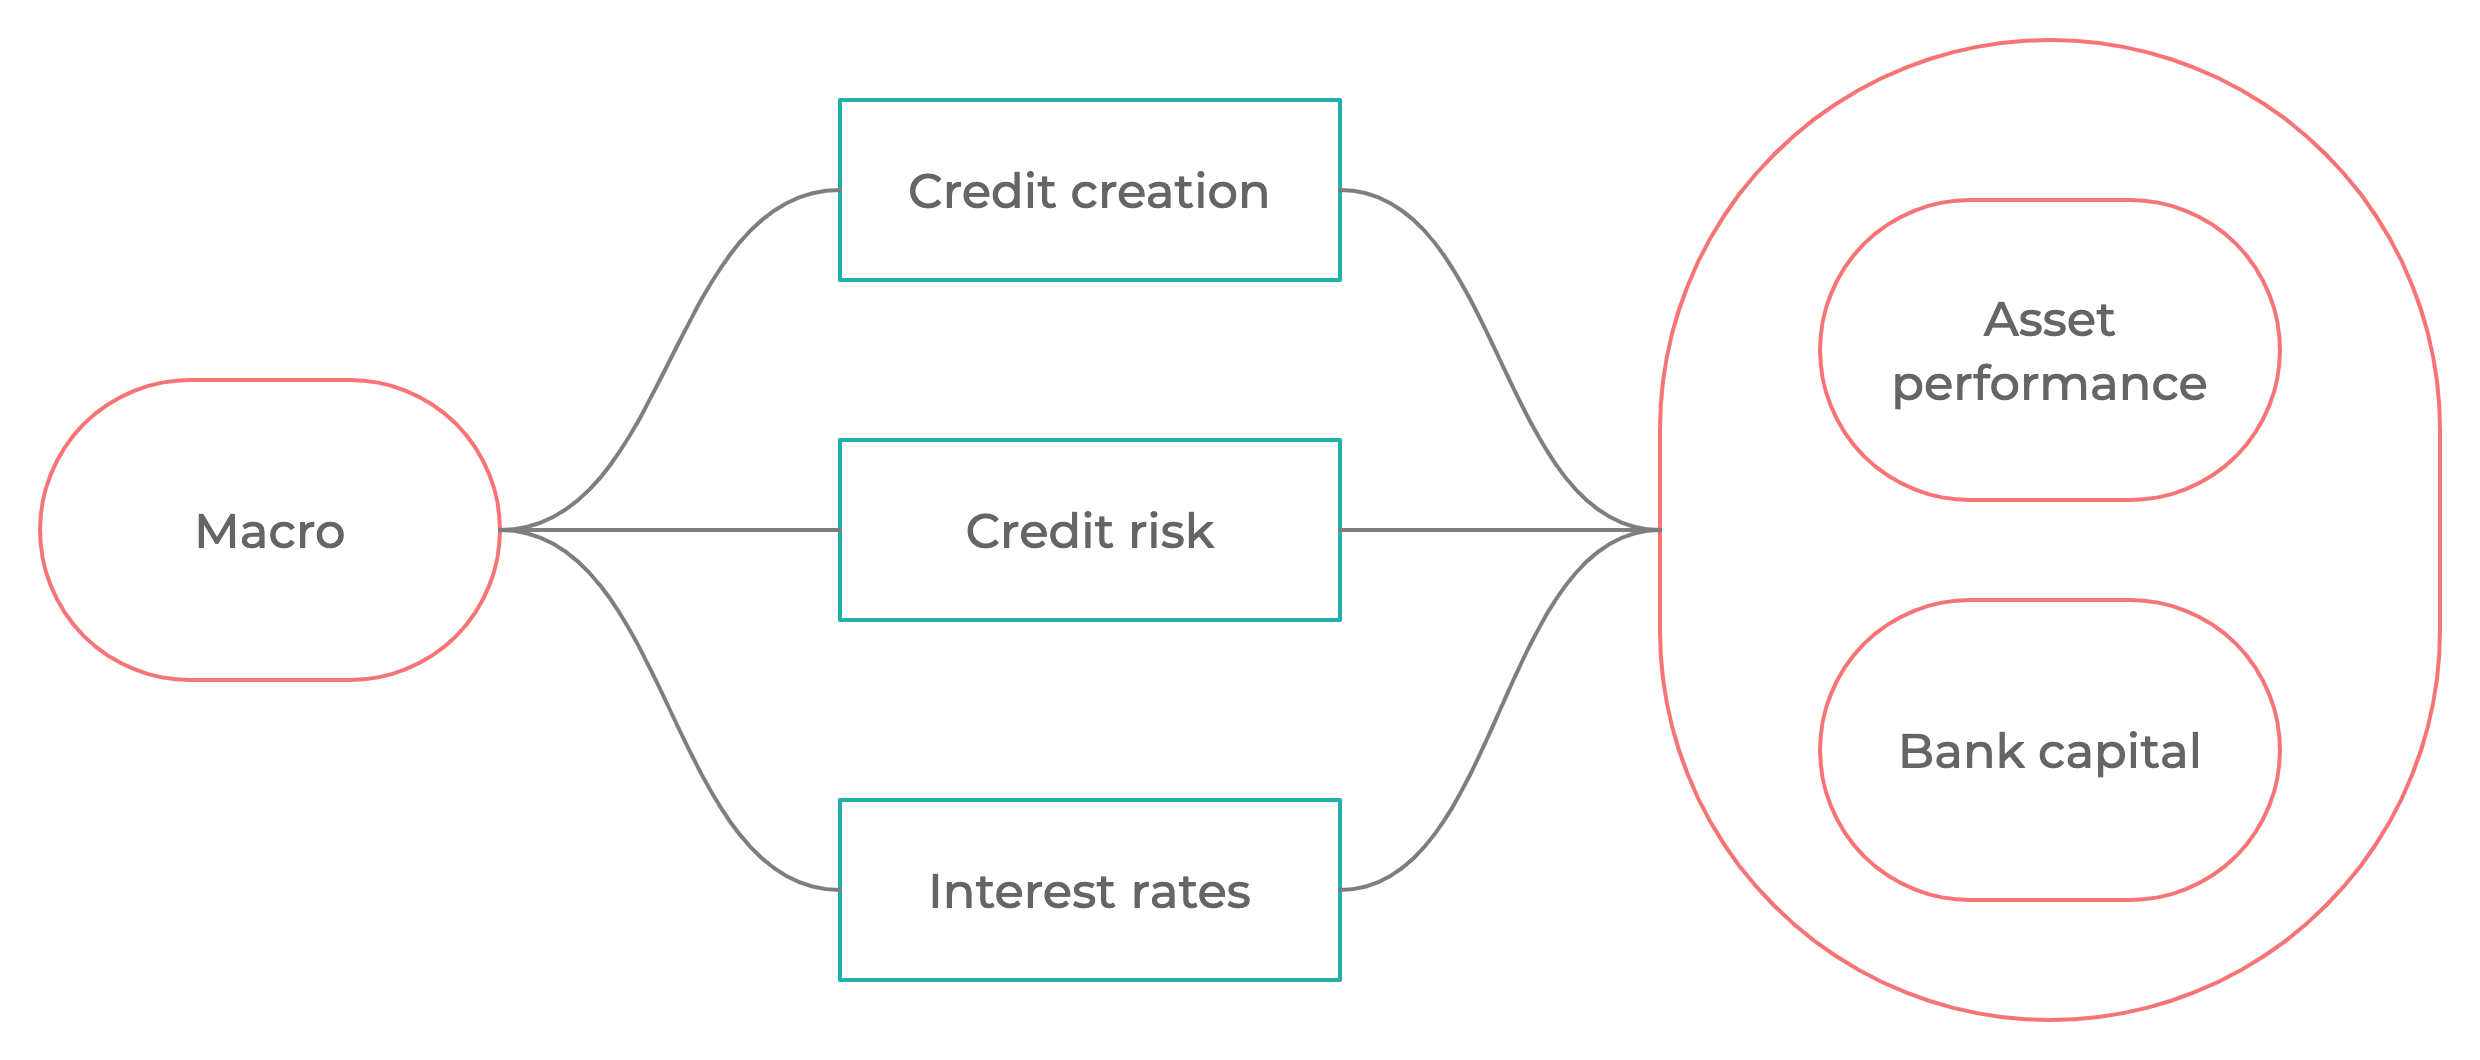
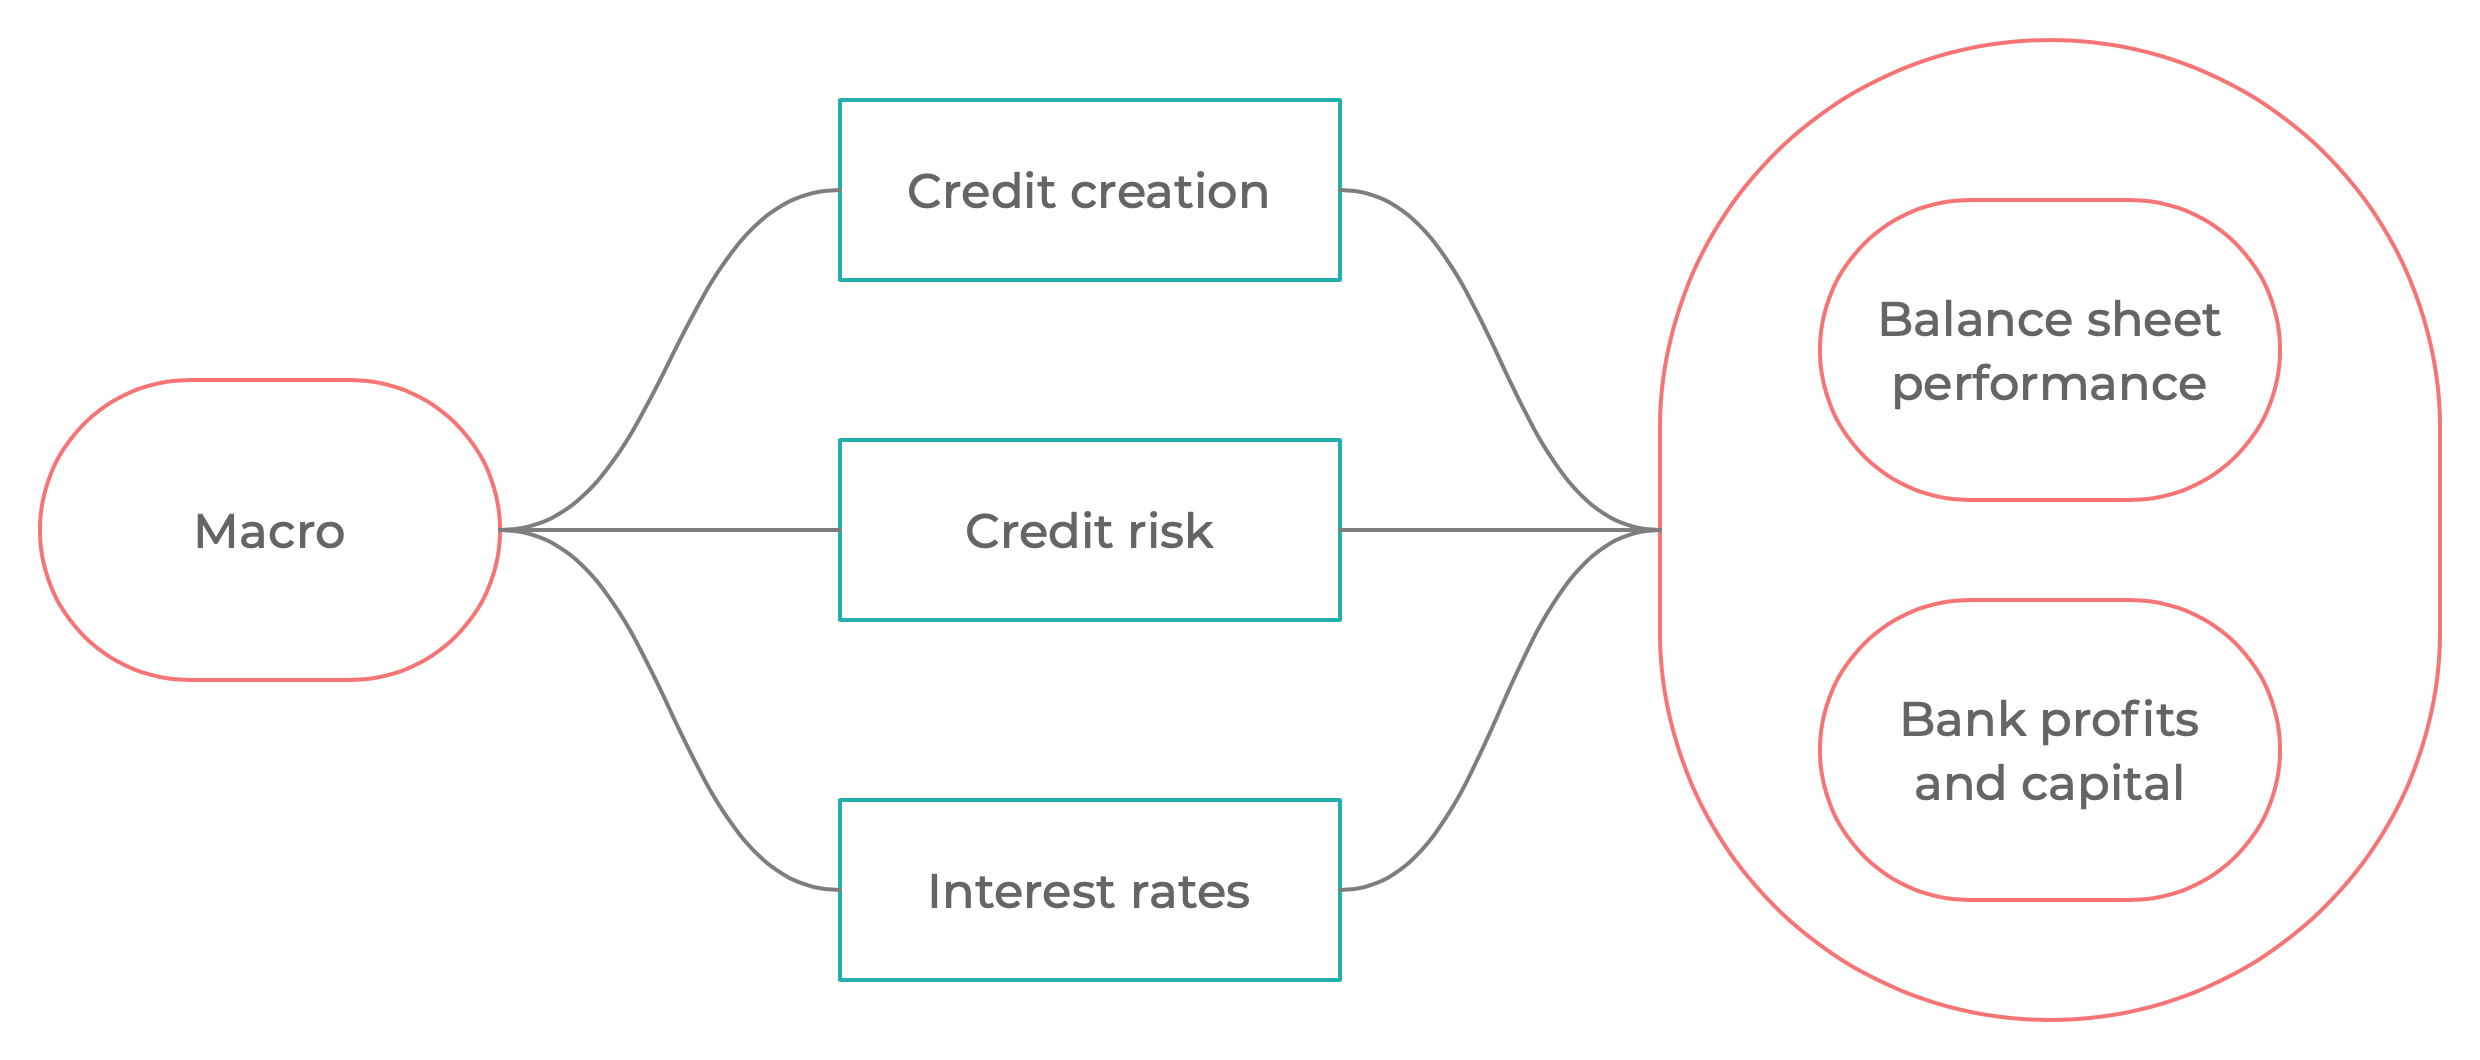
Edits before workshop

Changed region(s): [[0.7452, 0.6538, 0.9004, 0.7783], [0.7452, 0.2802, 0.9004, 0.3736]]

diff --git a/workshops/202204_inaugural/presentations/GIMM_introduction.md b/workshops/202204_inaugural/presentations/GIMM_introduction.md
@@ -96,84 +96,98 @@ April 2022
 ### Overview
 
 
-* Speaker contributions followed by model-based simulations 
-* This presentation introduces the modeling framework (MESSr)
-* Non-technical exposition, focusing on general, guiding principles
+* Speaker presentations followed by model-based experiments
+
+* This presentation introduces MESSr, the GIMM modeling framework 
+
+* Non-technical exposition explaining general modeling principles
 
 
 ---
 
 ### About the framework
 
-* Outcome of several applied macroprudential modeling projects
-	* Diverse economies and financial systems motivated large number of extensions
-* Focus primarily on __production__, not theoretical insights
-  * Motivated by insights from DSGE models (e.g. MAPMOD)
-  * But flexible semi-structural approach for practical reasons
-* Ongoing development based on our projects
+* The outcome of several __applied projects__ in macroprudential modeling
+	* A large numer of extensions emerged motivated by diverse economies and financial systems 
+
+* __Practical scenario production and policy advice__ framework, not a theoretical model
+    * Flexible semi-structural approach combining theory insights and empirical relevance
+    * Incorporates insights from more structural models, including DSGEs (e.g. MAPMOD)
+
+* __Continuous development__ responding to our technical cooperation projects
+
+---
+
+### Not just a model
+
+* A model alone, while a critical element, is not enough
+
+* Needs __operating infrastructure__ for regular use and streamlined production of outputs
+    * Collecting and feeding data to the model
+    * Streamlining the processing of inputs and outputs
+    * Reporting, internal and external communication of results
+
+* Motivated by first-hand experience from our practical applications
 
 
 ---
 
 ### Key modeling principles
 
-* __Top-down__ view of the economy
-  * Complements the usual FinStab bottom-up approach
-  * Works with aggregate concepts, not individual financial institutions
-* Endogenous __feedback loops__: (macroeconomy $\Longleftrightarrow$ financial sector)
-  * Vs traditional FinStab approach (macro $\Longrightarrow$ financial sector)
-* Medium-term view (2-5 yrs)
-  * Important to analyze macroprudential policy:
-    * Time for endogenous feedback loops to kick in
-    * Trade-offs of small and obvious costs now vs large potential gains in future
+* __Top-down__ modeling strategy
+    * Complement existing financial stability models/tools
+    * Provide a platform for consistently combining a range of inputs and pieces of analysis, including macro
+    * Aggregative view, not addressing individual financial institutions
+  
+* __Medium-term__ frequency of economic relationships
+    * Time for macro-financial interactions to kick in
+    * Policy trade-offs of small costs now vs large potential gains in the future
 
+* Endogenous __feedback__: macroeconomy $\Longleftrightarrow$ financial sector
+    * ...versus the more common one-way logic: macro $\Longrightarrow$ financial sector
 ---
 
 ### Key modeling principles, cont.
 
-* __Explicit__ description of balance sheets
-  * Gross positions matter, not just net positions
-* __Stock-flow consistency__:
-  * Stocks (wealth, credit stock, assets / liabilities) vs flows (GDP, credit creation, defaults / repayments)
-* Important role of __non-linearities__
-  * Necessary to render macroprudential policy relevant and useful
-  * Important to describe real-world events
+* __Explicit__ modeling of balance sheets
+    * Financial cycles associated with expansions and contractions of gross positions on balance sheets (banks, BOP, etc.)
+	* Correct understanding of how balance sheets work
+  
+* __Stock-flow consistency__
+    * Stocks (wealth, credit stock, assets, liabilities) cumulates from flows (GDP, new credit creation, defaults, repayments)
+
+* Presence of key __non-linearities__
+    * Nonlinearities are the essence of fin stab and macropru analysis
+    * Indispensable in describing real-world events
+    * Critical for macropru policy trade-offs
 
 ---
 
-### Focus on application
+### Designed for practical policy use cases
 
-* MESSr is a __semi-structural__ framework
-* Not DSGE with explicit microdoundations, but
+* __Semi-structural__ framework: Equations not derived from underlying "microfoundations", but still...
   * Explicit concepts of demand and supply (e.g. for credit)
-  * Endogenous expectations (can drive financial cycles)
-* Model __brought to data__, provide data-consistent simulations (as opposed to purely theoretical simulations)
-* __Integration and aggregation__ of several types of risk
-* Flexibility to describe various structures of financial system
-  * Primary focus on banks, but also other intermediaries too
+  * Unobserved sustainability trends (e.g. credit to GDP as in BIS analysis)	
+  * Endogenous expectations (e.g. makes easy to introduce IFRS9 forward-looking allowances)
+
+* __Empirical relevance__, capable of producing data-consistent scenarios (as opposed to only purely theoretical simulations)
+
 
 ---
 
-### Not just a model
+### Examples of practical use cases
 
-* Model itself is not enough
-* Need __infrastructure__ for regular, streamlined production of outputs
-  * Feeding data to the model
-  * Streamlined processing of macro inputs
-  * Reporting, communication of results
-* Ability to build __scenarios__ on top of (externally provided) baseline
-* Motivated by experience from and focus on practical applications
+* Build __scenarios__ on top of (externally provided) baselines (so-called Delta technique) 
 
----
+* Simulate the entire __macrofinancial cycles__ , e.g.
+    * Boom and bust in asset prices and credit growth
+    * Capital inflows and reversals
 
-### Differences from other macroprudential frameworks
+* Conceptualize the __costs and benefits__ of macropru policies
 
-* There is **no endogenous** macroprudential policy reaction function
-	* But we can analyze a range of policy interventions, incl. capital buffers, LTVs, credit caps, ...
-* No detailed description of individual banks
-* Focus on **scenario analysis**, not forecasting
-* Focus on **robust policy** vs optimal policy
-
+* Endogenously __integrate and aggregate__ main financial risks, e.g.
+    * Integrate credit, forex, market risk based on structural macro drivers
+    * Aggregate credit risk across economic sectors
 
 
 ---
@@ -184,43 +198,65 @@ April 2022
 
 ---
 
-### Banking sector balance sheet
+### Simplified aggregate bank balance sheets
 
 |                   | Assets                         |            Liabilities |                   |
 | :---------------- | :----------------------------- | ---------------------: | ----------------: |
 | $\xle$              | Net loans                      | Non-equity liabilities |               $\xd$ |
-| $+\ \sum \xl^{\,k}$ | *Gross loans*                  |       *Local currency* |  $d_t^{\,\xlcy}\ +$ |
-| $-\ \sum \xall^k$  | *Allowances for credit losses* |     *Foreign currency* | $d_t^{\,\xfcy} \ +$ |
+| $+\ \sum \xl^{\,k}$ | *Gross loans*                  |       *Local currency* |  $+\ d_t^{\,\xlcy}$ |
+| $-\ \sum \xall^k$  | *Allowances for credit losses* |     *Foreign currency* | $+\ d_t^{\,\xfcy}$ |
 | $\xona$             | Other net assets               |           Bank capital |                $bk$ |
 
-* We allow for:
-  * Loan portfolio segmentation (mortgages, consumer credit, ...)
-  * Currency segmentation (local vs foreign currency denominated loans)
+<br/>
+
+Accommodates
+* Loan portfolio segmentation (mortgages, consumer credit, ...)
+* Currency segmentation (local vs foreign currency assets and liabs)
+
 
 ---
 
 ### Proper balance sheet accounting
 
-* For each loan segment, the model keeps track of performing loans, non-performing loans, allowances...
+For each loan (asset) segment, keep track of loan (asset) performance:
 
-**Simplified life cycle of a representative loan**
+* Performing exposures
+* Nonperforming exposures
+* Defaults
+* Allowances (provisions) 
+* Writeoffs
+* Interest income, interest expense
+
+---
+
+### Simplified life cycle of a representative loan portfolio
 
 ![credit-risk-loan-performance](credit-risk-loan-performance.png)
 
 ---
 
-### Explicit modeling of bank capital, P&L
+### Bank profits and bank capital
 
 ![bank-capital|750](bank-capital.png)
 
 ---
 
-### Forward-looking creation of allowances
+### Allowances for credit losses (provisions)
 
-* New allowances (provisions) are created based on expected (forward-looking) loss
-* We can also model provisions based on incurred (backward-looking) loss
+* Credit risk is the key element of financial risks on bank balance sheets
 
-**Dynamics of allowances**
+* Allowances (provisions) for credit risk now based on one of two concepts
+
+	* Incurred loss based (backward looking)
+	* Expected loss based (forward looking, IFRS9)
+
+* Mixed use in financial reporting and regulatory standards
+
+* MESSr easily accommodates either or both
+
+---
+
+### Dynamics of forward-looking (IRS9) allowances
 
 ![allowances-stock-flow](allowances-stock-flow.png)
 
@@ -232,7 +268,7 @@ __Reduced-form approach__: Provides little insight into demand and supply
 
 ![Reduced form credit creation|600](reduced-form-credit-creation.png)
 
-__Our approach__: Motivated by insights from DSGE models.
+__Semi-structural approach__: Motivated by insights from DSGE models.
 
 
 ![Semistructural credit creation|750](structural-credit-creation.png)
@@ -261,12 +297,12 @@ __Our approach__: Motivated by insights from DSGE models.
 
 ### Key nonlinearity 1: Credit risk function
 
-* Link of credit risk to macro conditions <mark>Single factor somethign BASEL?</mark> is non-linear
+Conceptually consistent with Basel II/III asymptotic single-factor risk model
 
 ![image-20220423233150331](image-20220423233150331.png)
 
 ---
 
-### Key nonlinearity 2: Capital risk surcharge
+### Key nonlinearity 2: Capital adequacy risk surcharge
 
 ![image-20220423234123581](image-20220423234123581.png)
